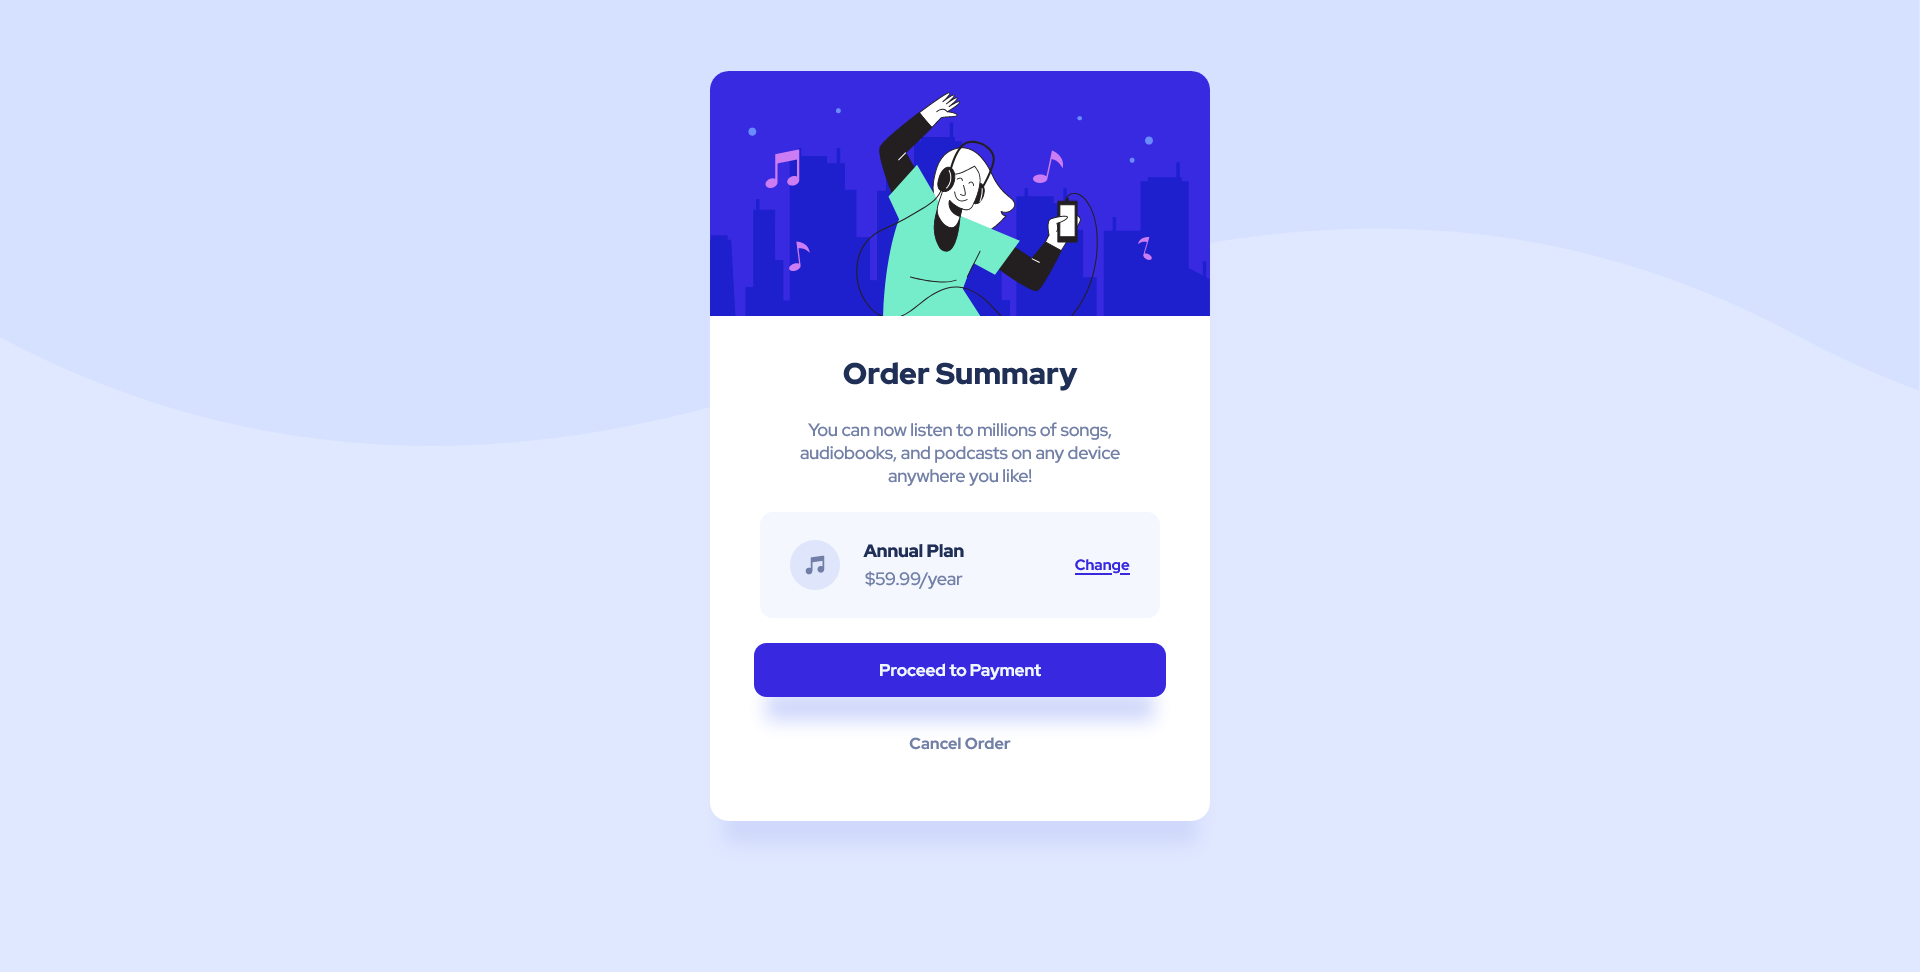
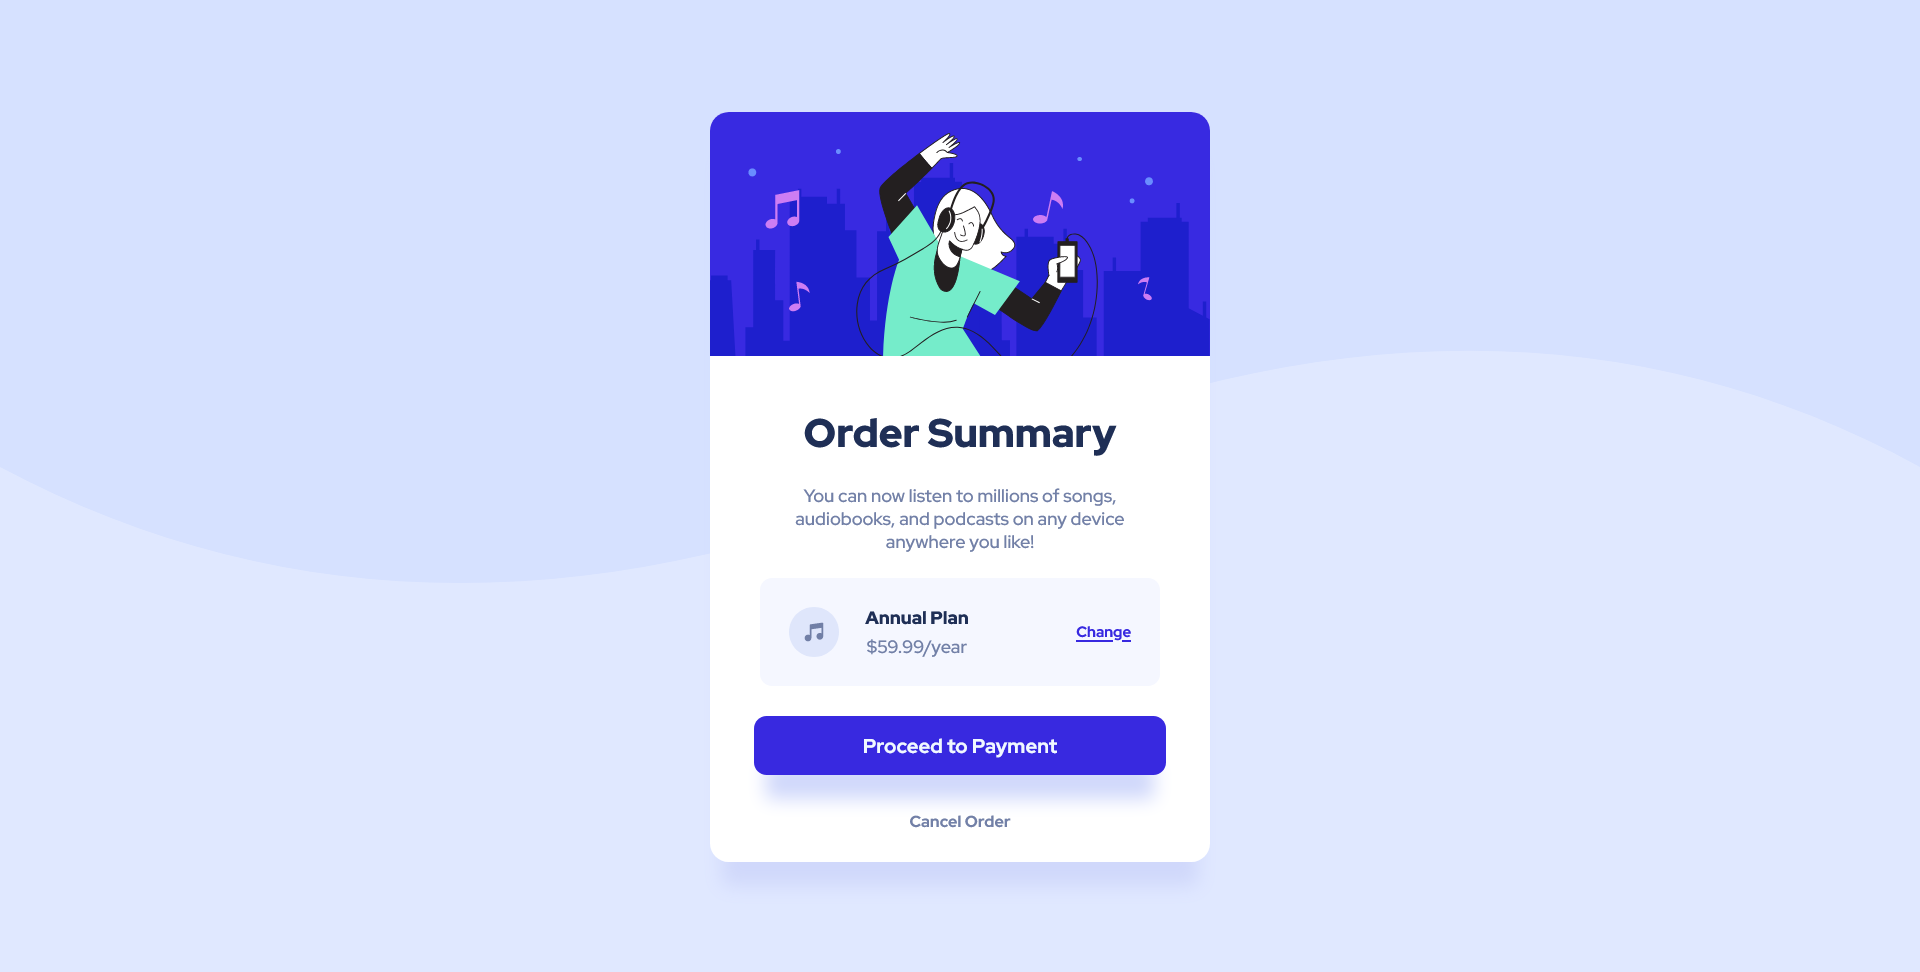
Edit units in CSS and url of image

Changed region(s): [[0.3438, 0.4321, 0.6562, 0.8951], [0.3438, 0.0617, 0.6562, 0.4012]]

diff --git a/style.css b/style.css
@@ -12,56 +12,53 @@
     --STextcolor:hsl(224, 23%, 55%);
 }
 body{
+    min-height: 100vh;
+    display: flex;
+    justify-content: center;
+    align-items: center;
     background-color: var(--Maincolor,black);
-
-}
-main .im1{
     background-image: url(images/pattern-background-desktop.svg);
-    width: 1535px;
-    height: 437px;
-    position: relative;
-    bottom: 80px;
-    z-index: -1;
+    background-repeat: no-repeat;
+    background-size: contain;
 }
 .container{
-    width: 400px;
-    height: 600px;
+    width: 25em;
+    height: 37.5em;
     text-align: center;
-    margin: -380px auto;
     background-color: #fff;
-    border-radius: 15px;
-    box-shadow: 0 29px 14px -10px hsl(229 85% 90%);
+    border-radius: 0.94em;
+    box-shadow: 0 1.8em 0.9em -0.6em hsl(229 85% 90%);
 }
 .container header img{
     width:100%;
-    border-top-left-radius: 15px;
-    border-top-right-radius: 15px;
+    border-top-left-radius: 0.94em;
+    border-top-right-radius: 0.94em;
 }
-.container h2{
+.container h1{
     color: var(--HTextcolor,black);
-    margin-top: 25px;
+    margin-top: 1.1em;
     font-weight: 900;
 }
 .container p{
-    margin: 20px;
+    margin: 1.4em;
     color: var(--STextcolor,black);
-    font-size: 14px;
+    font-size: 0.9rem;
 }
 .container .block{
-    margin:0 40px 0;
+    margin:0 2.5em 0;
     display: flex;
     justify-content: space-around;
     align-items: center;
     background-color: var(--Blockcolor,black);
-    border-radius: 10px;
-    margin-bottom: 20px;
+    border-radius: 0.6em;
+    margin-bottom: 1.5em;
 }
 .container .block img{
-    margin-left: -10px;
-    width: 40px;
+    margin-left: -0.6em;
+    width: 2.5em;
 }
 .container .block p{
-    margin-left: -50px;
+    margin-left: -3.125em;
     line-height: 1.6;
 }
 .container .block p span{
@@ -69,9 +66,9 @@ main .im1{
         font-weight: 900;
 }
 .container .block .ch{
-    font-size: 12px;
+    font-size: 0.75rem;
     font-weight: 700;
-    margin-right: -10px;
+    margin-right: -0.83em;
     color: var(--Btncolor,black);
 }
 .container .block .ch:hover{
@@ -79,16 +76,17 @@ main .im1{
     color: rgba(56, 41, 224,0.7);
 }
 button{
-    width: 330px;
-    padding: 13px;
+    width: 20.625em;
+    font-size: 1rem;
+    padding: 0.81em;
     background-color: var(--Btncolor,black);
     border: none;
-    margin-bottom: 25px;
+    margin-bottom: 1.6em;
     cursor: pointer;
-    border-radius: 10px;
+    border-radius: 0.625em;
     color: aliceblue;
-    box-shadow: 0 29px 14px -10px hsl(229 85% 90%);
-    font-weight: 700;    
+    box-shadow: 0 1.8em 0.9em -0.6em hsl(229 85% 90%);
+    font-weight: 700;
 }
 .container button:hover{
     background-color: rgba(56, 41, 224,0.7);
@@ -98,28 +96,14 @@ button{
     text-decoration: none;
     color: var(--STextcolor,black);
     font-weight: 700;
-    font-size: 13px;
+    font-size: 0.81rem;
 }
 .container .ca:hover{
     color: var(--HTextcolor,black);
     font-weight: 900;
 }
-@media (max-width:767px) {
-    main .im1{
+@media (max-width:47.93em) {
+    body{
         background-image: url(images/pattern-background-mobile.svg);
-        background-repeat: no-repeat;
-        position: relative;
-        bottom:0;
-    }
-    .container{
-        width: 345px;
-        height: 555px;
-    }
-    .container .block{
-        margin: 0 25px 0;
-        margin-bottom: 20px;
-    }
-    button{
-        width: 300px;
     }
 }

diff --git a/index.html b/index.html
@@ -13,12 +13,11 @@
 </head>
 <body>
   <main>
-    <div class="im1"></div>
     <div class="container">
       <header>
         <img src="images/illustration-hero.svg" alt="">
       </header>
-      <h2>Order Summary</h2>
+      <h1>Order Summary</h1>
       <p>You can now listen to millions of songs,
         <br>audiobooks, and podcasts on any device
         <br> anywhere you like!</p>
